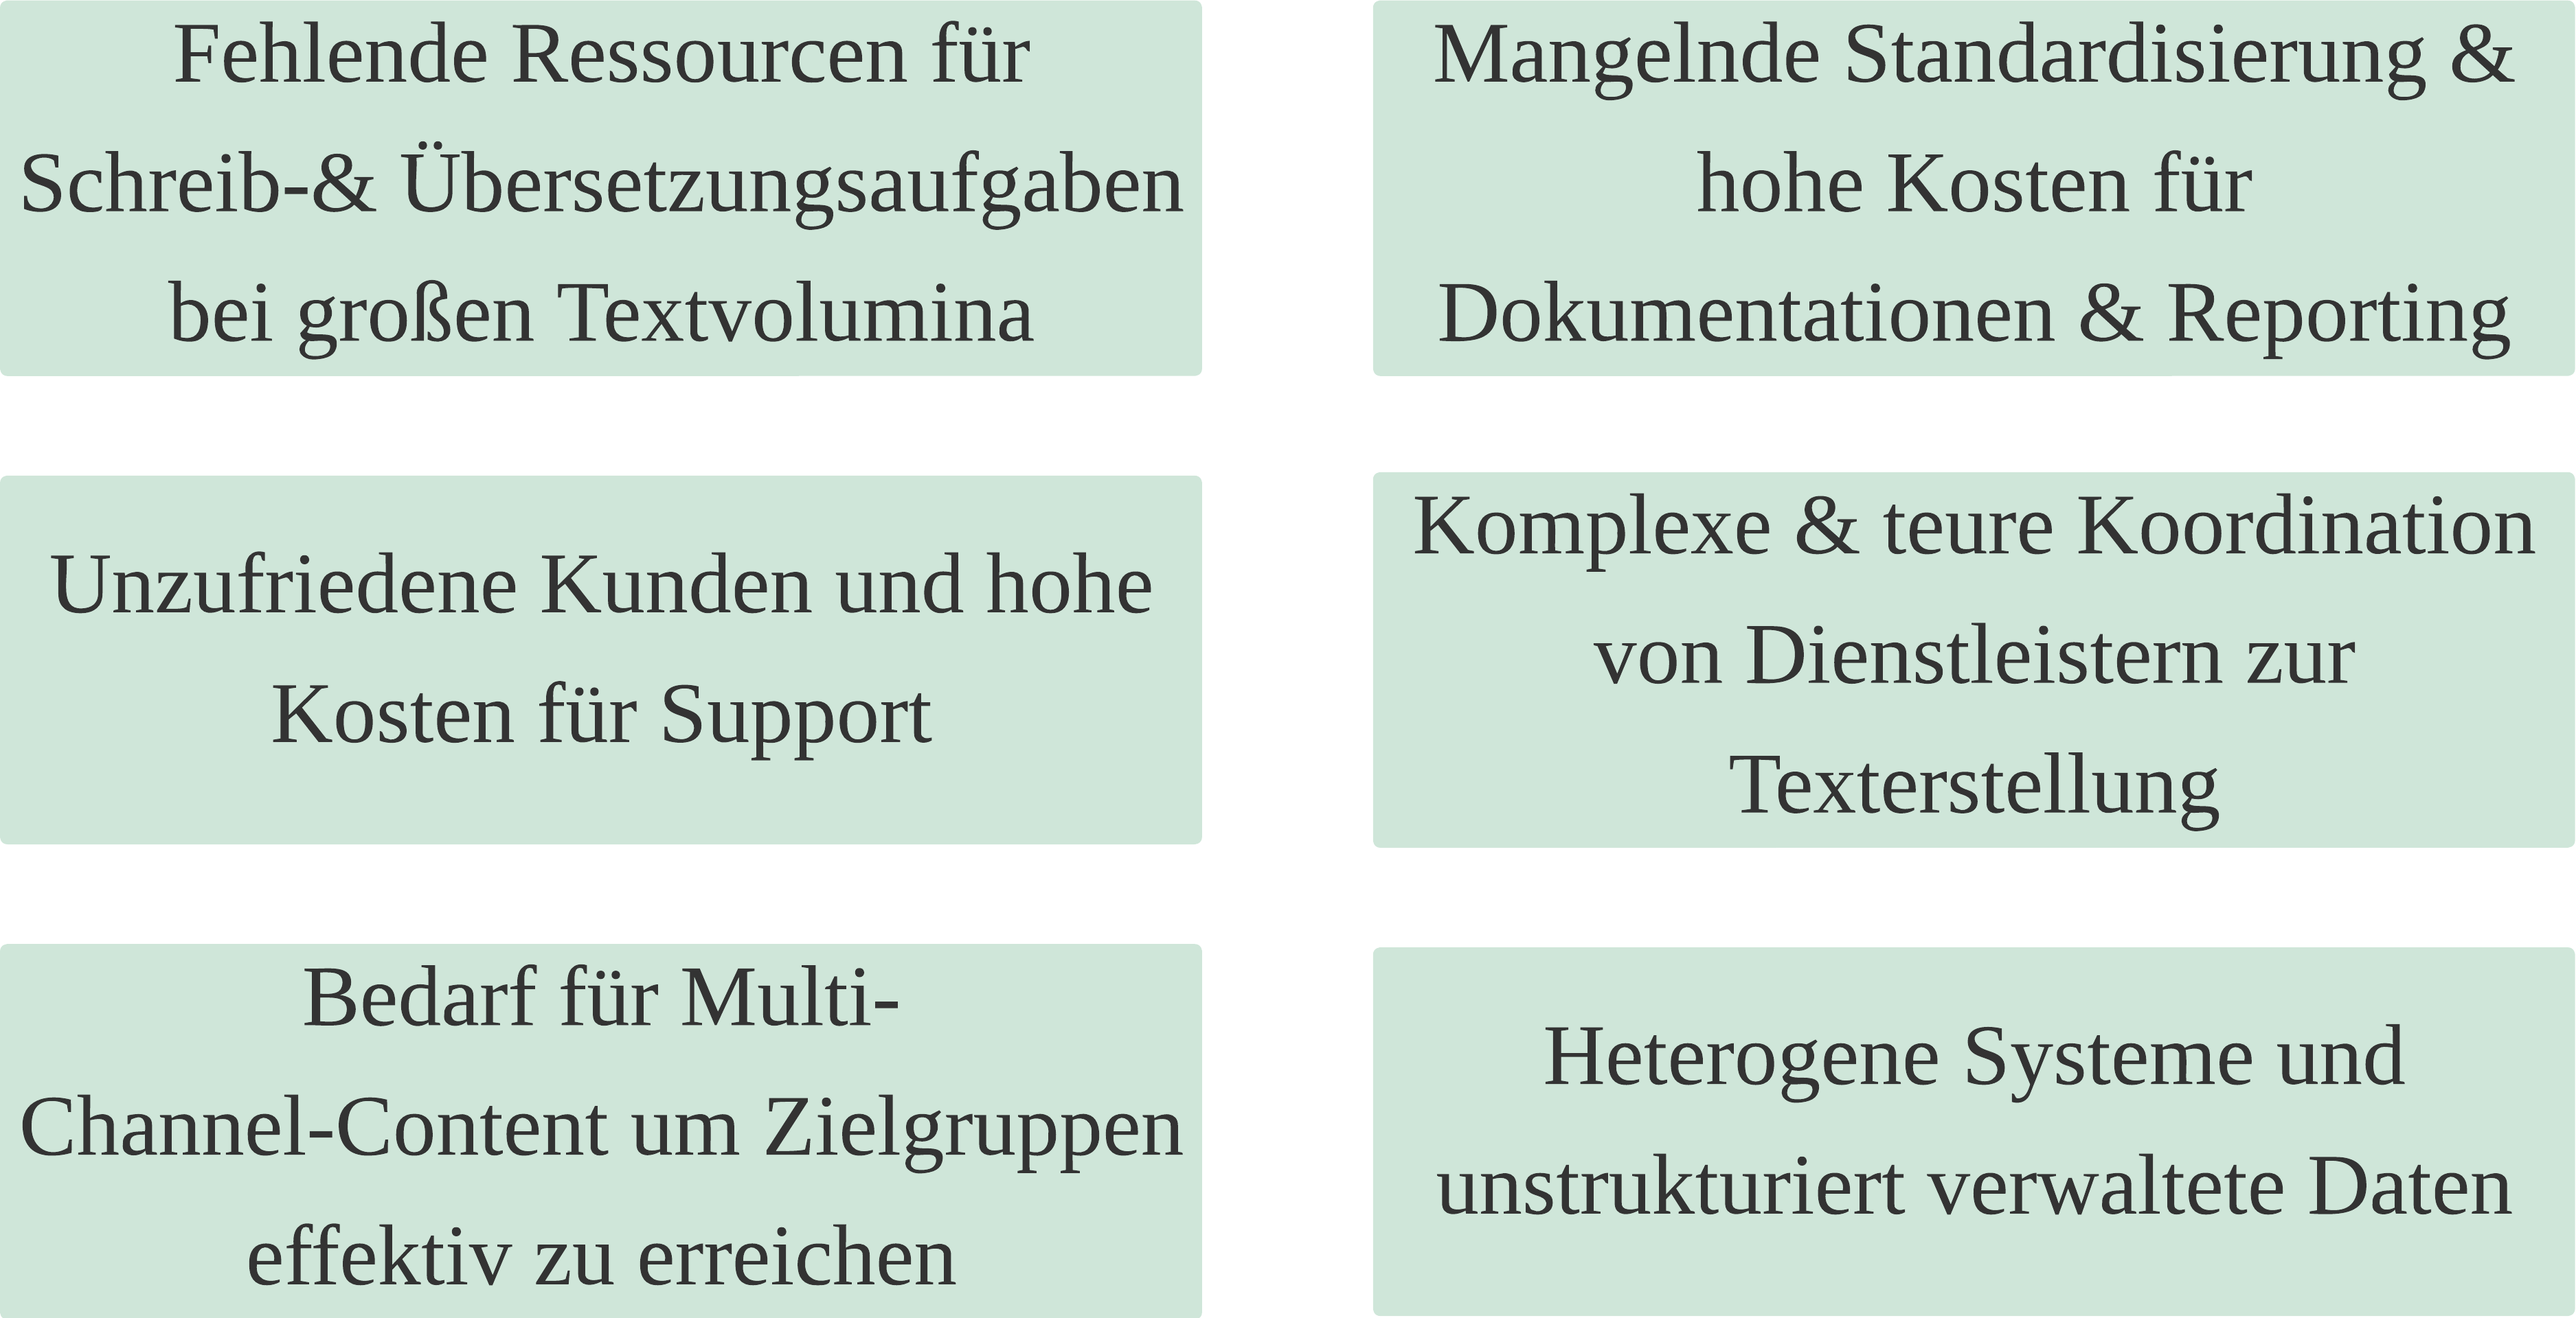
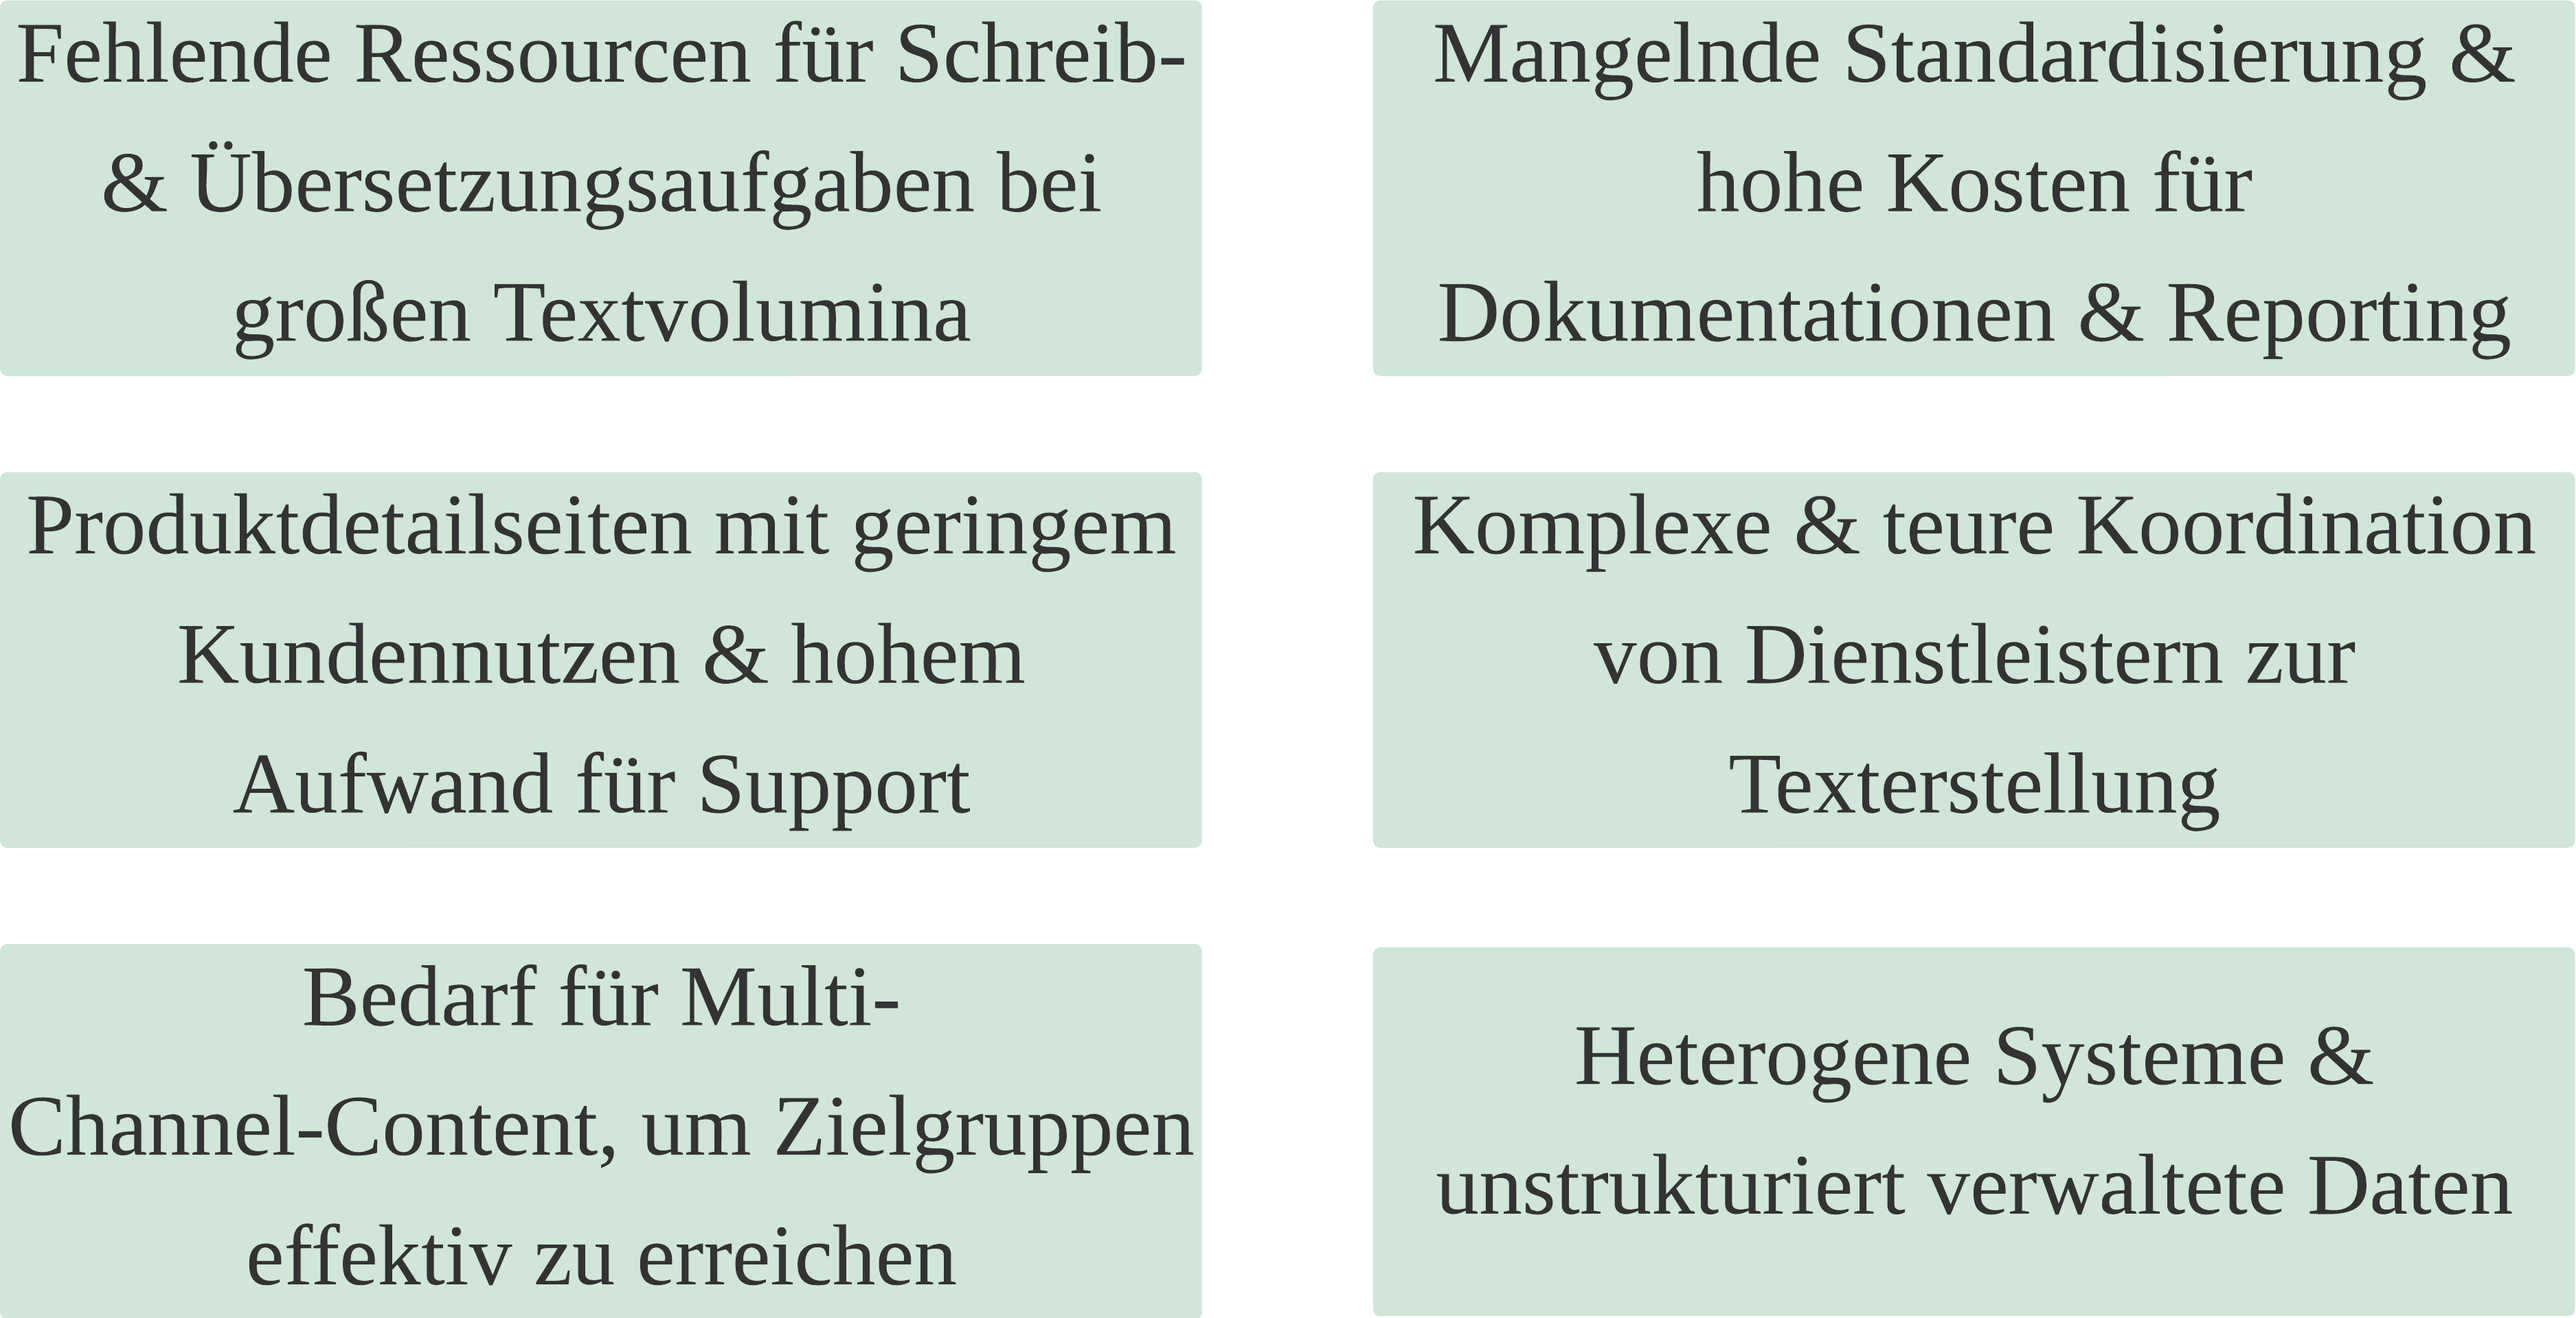
Fix typos in text and images

diff --git a/index.md b/index.md
@@ -14,7 +14,7 @@ feature_text: |
 
 Die im Projekt entwickelte Software ermöglicht die skalierbare Automatisierung sich wiederholender, kostspieliger Schreibprozesse: Inhalte werden in 110 Sprachen generiert, dynamisch personalisiert und können sich selbstlernend verbessern.
 
-Anwendungsfälle reichen von der automatisierten Betextung von Produktdetailseiten im eCommerce, über die Generierung von Business-Reports, bis hin zu dynamischen Arbeitsanweisungen in Smart-Factories.
+Anwendungsfälle reichen von der automatisierten Betextung von Produktdetailseiten im eCommerce über die Generierung von Business-Reports bis hin zu dynamischen Arbeitsanweisungen in Smart-Factories.
 
 Alle Daten, die strukturiert digitalisiert zu einem Asset vorliegen, können einfach betextet werden. Standards wie die Asset Administration Shell (AAS) sorgen dafür, dass Daten zu jeder Zeit strukturiert vorliegen und damit noch einfacher betextet werden können.
 
@@ -33,7 +33,6 @@ KI Sprachtec erforscht Lösungen für Unternehmen, die sich mit folgenden Heraus
 Probieren Sie den derzeitigen Stand [hier](https://docs.ax-semantics.com/guides/seminar.html#the-basics) aus oder schauen Sie sich [hier]() eine besipielhafte AAS einer physischen Visitenkarte des Werk150 an.
 
 
-# Produktdetailseiten mit geringem Kundennutzen & hohem Aufwand für SUpport
 
 <br>
 <br>
